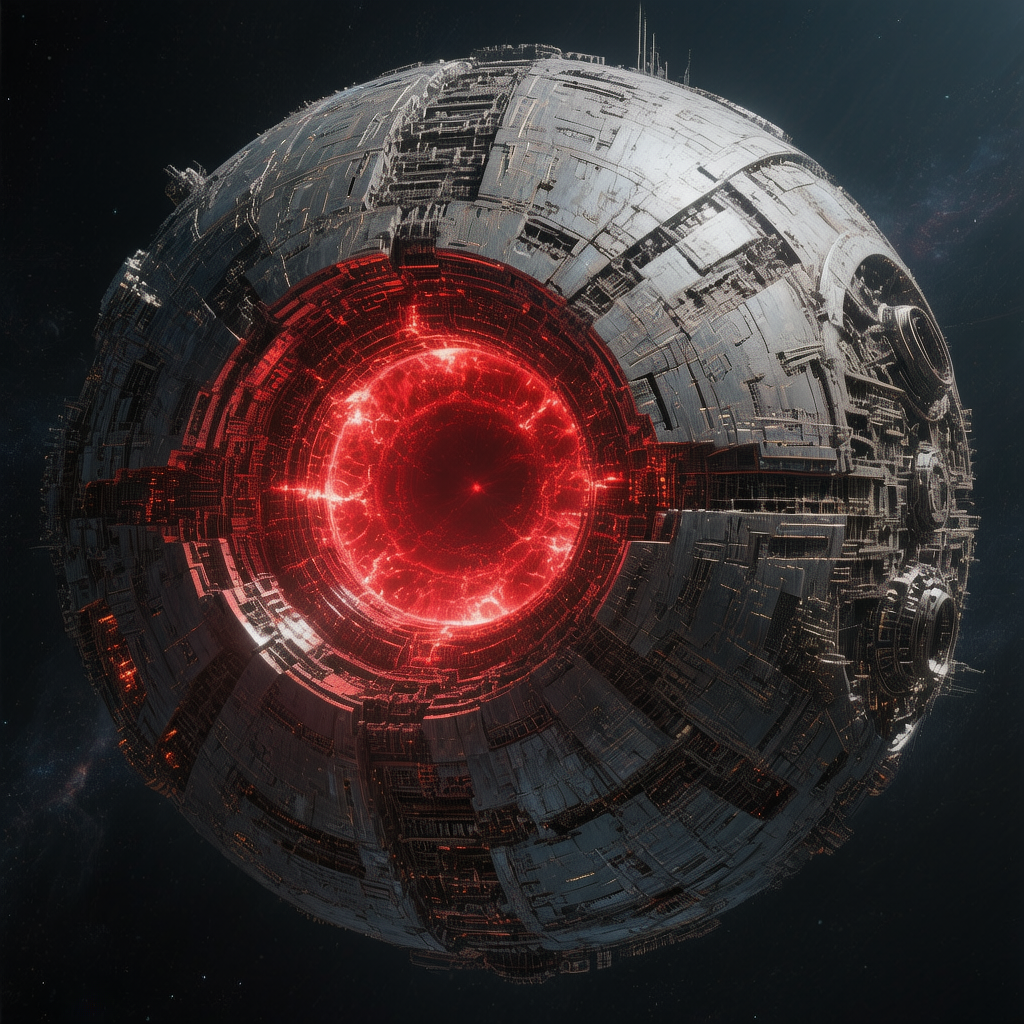
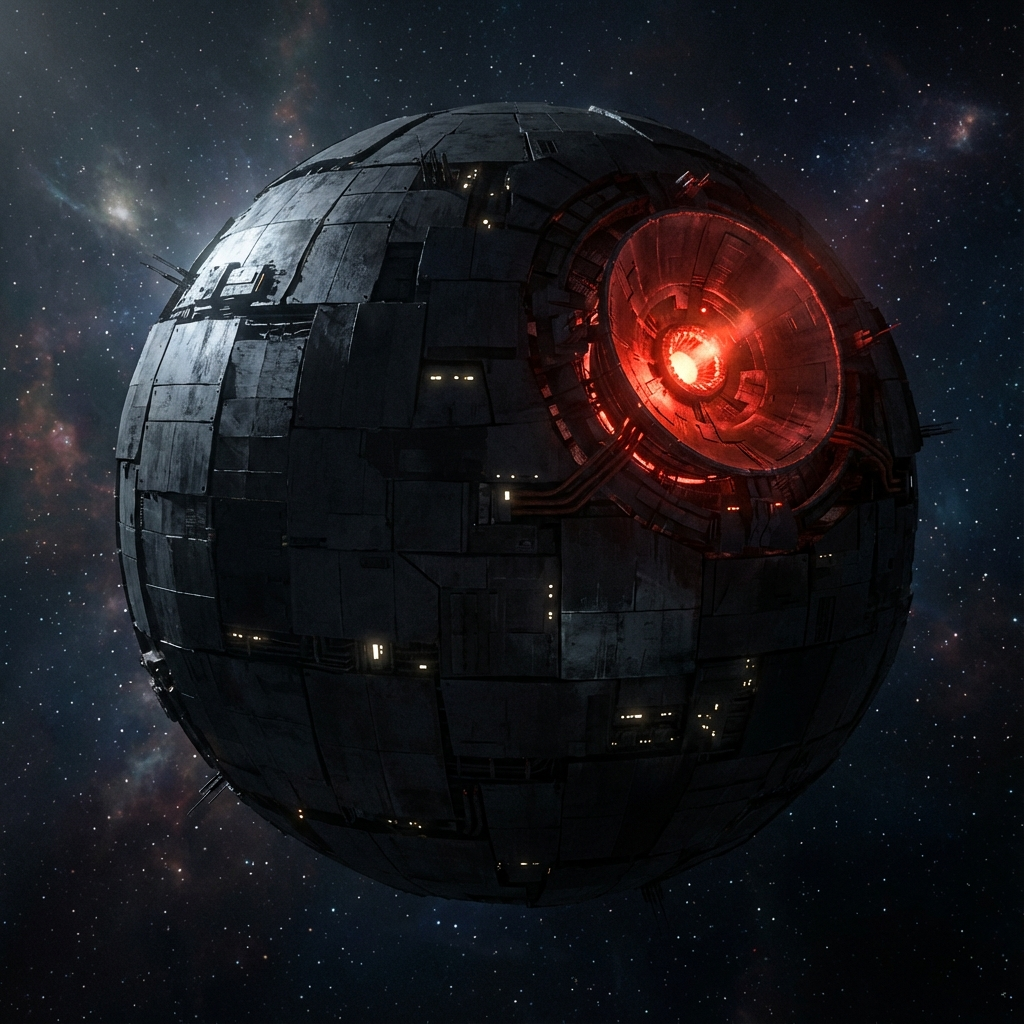
feat: Add custom graphic for Death Star

diff --git a/views/Shop.tsx b/views/Shop.tsx
@@ -103,7 +103,8 @@ const Shop: React.FC = () => {
             icon: 'public_off', // planetary destruction icon
             color: 'from-red-900 to-black',
             special: true,
-            unavailable: true
+            unavailable: true,
+            image: '/ships/death_star.png'
         }
     ];
 
@@ -179,16 +180,23 @@ const Shop: React.FC = () => {
                 {getItems().map(item => (
                     <div key={item.id} className={`bg-[#1c2136] rounded-xl border overflow-hidden group transition-all flex flex-col ${item.special ? 'border-red-500/50 shadow-[0_0_30px_rgba(220,38,38,0.2)]' : 'border-white/10 hover:border-yellow-500/50'}`}>
                         <div className={`h-24 bg-gradient-to-br ${item.color} relative flex items-center justify-center overflow-hidden`}>
-                            <div className="absolute inset-0 bg-black/30"></div>
+
+                            {(item as any).image ? (
+                                <div className="absolute inset-0 bg-cover bg-center transition-transform duration-700 group-hover:scale-110" style={{ backgroundImage: `url("${(item as any).image}")` }}>
+                                    <div className="absolute inset-0 bg-black/40"></div>
+                                </div>
+                            ) : (
+                                <div className="absolute inset-0 bg-black/30"></div>
+                            )}
 
                             {/* Special Effect for Death Star */}
                             {item.special && (
-                                <div className="absolute inset-0 opacity-50 animate-pulse"
-                                    style={{ background: 'radial-gradient(circle at center, rgba(255,0,0,0.5) 0%, transparent 70%)' }}>
+                                <div className="absolute inset-0 opacity-30 animate-pulse pointer-events-none"
+                                    style={{ background: 'radial-gradient(circle at center, rgba(255,0,0,0.4) 0%, transparent 70%)' }}>
                                 </div>
                             )}
 
-                            <span className={`material-symbols-outlined text-5xl text-white drop-shadow-lg relative z-10 ${item.special ? 'animate-[pulse_4s_ease-in-out_infinite]' : ''}`}>{item.icon}</span>
+                            <span className={`material-symbols-outlined text-5xl text-white drop-shadow-lg relative z-10 ${item.special ? 'animate-[pulse_4s_ease-in-out_infinite] opacity-80' : ''}`}>{item.icon}</span>
 
                             <div className="absolute bottom-2 right-2 bg-black/60 backdrop-blur px-2 py-1 rounded text-xs font-mono text-white border border-white/10">
                                 {item.cost.toLocaleString()} DM
